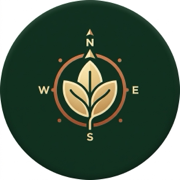
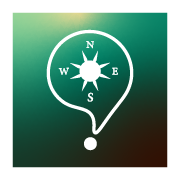
feat(pwa & ui): iconos estandarizados pwa, modulo doble pastilla proximo destino y saneamiento admin

diff --git a/src/components/events/ProximoDestinoCard.tsx b/src/components/events/ProximoDestinoCard.tsx
@@ -8,52 +8,102 @@ interface ProximoDestinoCardProps {
   zonaActual: string;
 }
 
+type ZonaKey = "tayrona" | "mendihuaca" | "minca";
+
+interface TargetDestinoConfig {
+  slug: ZonaKey;
+  emoji: string;
+  themeClasses: string;
+}
+
+const DESTINOS_CONFIG: Record<ZonaKey, { targets: TargetDestinoConfig[] }> = {
+  tayrona: {
+    targets: [
+      {
+        slug: "mendihuaca",
+        emoji: "🌊",
+        themeClasses:
+          "bg-cyan-700 hover:bg-cyan-800 text-white border-cyan-800 shadow-cyan-900/10",
+      },
+      {
+        slug: "minca",
+        emoji: "🌿",
+        themeClasses:
+          "bg-forest hover:bg-forest-dark text-white border-forest shadow-emerald-950/10",
+      },
+    ],
+  },
+  mendihuaca: {
+    targets: [
+      {
+        slug: "tayrona",
+        emoji: "🌴",
+        themeClasses:
+          "bg-[#144D34] hover:bg-[#0C3322] text-white border-[#144D34] shadow-emerald-950/10",
+      },
+      {
+        slug: "minca",
+        emoji: "🌿",
+        themeClasses:
+          "bg-forest hover:bg-forest-dark text-white border-forest shadow-emerald-950/10",
+      },
+    ],
+  },
+  minca: {
+    targets: [
+      {
+        slug: "tayrona",
+        emoji: "🌴",
+        themeClasses:
+          "bg-[#144D34] hover:bg-[#0C3322] text-white border-[#144D34] shadow-emerald-950/10",
+      },
+      {
+        slug: "mendihuaca",
+        emoji: "🌊",
+        themeClasses:
+          "bg-cyan-700 hover:bg-cyan-800 text-white border-cyan-800 shadow-cyan-900/10",
+      },
+    ],
+  },
+};
+
 export function ProximoDestinoCard({ zonaActual }: ProximoDestinoCardProps) {
   const t = useTranslations("crossSelling");
 
-  const isMinca = zonaActual === "minca";
-  const targetZona = isMinca ? "mendihuaca" : "minca";
+  const normalized = (zonaActual === "tairona" ? "tayrona" : zonaActual).toLowerCase();
+  const currentZone: ZonaKey =
+    normalized in DESTINOS_CONFIG
+      ? (normalized as ZonaKey)
+      : "minca";
 
-  const handleTransito = () => {
+  const config = DESTINOS_CONFIG[currentZone];
+
+  const handleTransito = (targetZona: string) => {
     try {
       localStorage.setItem("padonde_zona", targetZona);
       document.cookie = `padonde_zona=${targetZona}; path=/; max-age=31536000; SameSite=Lax`;
+      sessionStorage.removeItem("padonde_filtro_categoria");
     } catch {}
     trackCrossSellingClick(zonaActual, targetZona);
   };
 
-  const badge = isMinca ? t("mincaToMendiBadge") : t("mendiToMincaBadge");
-  const title = isMinca ? t("mincaToMendiTitle") : t("mendiToMincaTitle");
-  const desc = isMinca ? t("mincaToMendiDesc") : t("mendiToMincaDesc");
-  const cta = isMinca ? t("mincaToMendiCta") : t("mendiToMincaCta");
+  const badge = t("badge");
+  const title = t(`${currentZone}.title`);
+  const desc = t(`${currentZone}.desc`);
 
   return (
     <aside
       aria-label="Módulo de transición hacia el próximo destino"
       className="my-7 px-1 animate-in fade-in slide-in-from-bottom-2 duration-300"
     >
-      <Link
-        href={`/${targetZona}`}
-        onClick={handleTransito}
-        className={`block p-5 sm:p-6 rounded-3xl border transition-all duration-200 group active:scale-[0.99] shadow-sm hover:shadow-md cursor-pointer ${
-          isMinca
-            ? "bg-gradient-to-br from-white via-cyan-50/40 to-emerald-50/50 border-cyan-200/70 hover:border-cyan-300"
-            : "bg-gradient-to-br from-white via-emerald-50/40 to-stone-50/60 border-emerald-200/70 hover:border-emerald-300"
-        }`}
-      >
+      <div className="p-5 sm:p-6 rounded-3xl border border-stone-200/80 bg-gradient-to-br from-white via-stone-50/50 to-cream/70 shadow-sm text-left">
         <div className="flex items-start justify-between gap-3">
           <div className="space-y-1.5 flex-1">
-            <span
-              className={`inline-flex items-center gap-1.5 px-3 py-1 rounded-full text-[11px] font-sans font-bold tracking-tight shadow-2xs ${
-                isMinca
-                  ? "bg-cyan-100/70 text-cyan-900 border border-cyan-200"
-                  : "bg-emerald-100/70 text-emerald-900 border border-emerald-200"
-              }`}
-            >
+            <span className="inline-flex items-center gap-1.5 px-3 py-1 rounded-full text-[11px] font-sans font-bold tracking-tight bg-stone-100 text-stone-700 border border-stone-200/80 shadow-2xs">
               {badge}
             </span>
 
-            <h3 className="font-serif text-base sm:text-lg text-forest font-bold leading-snug group-hover:text-forest-dark transition-colors pt-1">
+            <h3 className="font-serif text-base sm:text-lg text-forest font-bold leading-snug pt-1">
               {title}
             </h3>
 
@@ -63,32 +113,39 @@ export function ProximoDestinoCard({ zonaActual }: ProximoDestinoCardProps) {
           </div>
 
           <div
-            className={`w-11 h-11 rounded-2xl flex items-center justify-center text-xl shrink-0 transition-transform group-hover:scale-110 shadow-2xs ${
-              isMinca
-                ? "bg-cyan-50 border border-cyan-100 text-cyan-800"
-                : "bg-emerald-50 border border-emerald-100 text-emerald-800"
-            }`}
+            className="w-10 h-10 rounded-2xl flex items-center justify-center text-lg shrink-0 bg-stone-100/80 border border-stone-200/70 text-stone-600 shadow-2xs select-none"
+            aria-hidden="true"
           >
-            {isMinca ? "🌊" : "🌿"}
+            🧭
           </div>
         </div>
 
-        <div className="mt-4 pt-3 border-t border-stone-light/60 flex items-center justify-between">
-          <span className="font-sans text-[11px] text-stone font-medium">
-            {isMinca ? "Sierra Nevada ➔ Mar Caribe" : "Caribe ➔ Sierra Nevada"}
-          </span>
+        {/* Matriz dinámica de dos opciones - Mobile-first con touch target >= 44px */}
+        <div className="mt-4 pt-3.5 border-t border-stone-light/70 flex items-stretch gap-2 sm:gap-2.5 w-full">
+          {config.targets.map((target) => {
+            const label = t(`destinos.${target.slug}.label`);
 
-          <span
-            className={`inline-flex items-center gap-1 px-3.5 py-1.5 rounded-xl font-sans text-xs font-bold transition-all shadow-2xs group-hover:shadow-xs ${
-              isMinca
-                ? "bg-cyan-700 text-white group-hover:bg-cyan-800"
-                : "bg-forest text-cream group-hover:bg-forest-dark"
-            }`}
-          >
-            {cta}
-          </span>
+            return (
+              <Link
+                key={target.slug}
+                href={`/${target.slug}`}
+                onClick={() => handleTransito(target.slug)}
+                className={`flex-1 min-h-[44px] px-3 sm:px-4 py-2.5 rounded-2xl flex items-center justify-center gap-1.5 sm:gap-2 font-sans text-xs sm:text-sm font-bold border transition-all duration-200 active:scale-[0.98] shadow-2xs hover:shadow-xs cursor-pointer ${target.themeClasses}`}
+              >
+                <span className="text-sm sm:text-base select-none shrink-0">
+                  {target.emoji}
+                </span>
+                <span className="truncate tracking-tight font-semibold">
+                  {label}
+                </span>
+                <span className="text-xs opacity-75 shrink-0 ml-0.5" aria-hidden="true">
+                  →
+                </span>
+              </Link>
+            );
+          })}
         </div>
-      </Link>
+      </div>
     </aside>
   );
 }

diff --git a/src/app/[locale]/(dashboard)/admin/page.tsx b/src/app/[locale]/(dashboard)/admin/page.tsx
@@ -45,12 +45,31 @@ export default async function AdminDashboardPage({
     .eq("clave", "notificaciones_telegram")
     .maybeSingle();
 
-  // 1.2 Asegurar activación oficial de la zona Tayrona en Supabase (sesión autenticada admin)
+  // 1.2 Asegurar activación oficial de la zona Tayrona y saneamiento de Zirumake en Supabase (sesión autenticada admin)
   try {
     await supabase
       .from("zonas")
       .update({ activa: true })
       .in("slug", ["tayrona", "tairona"]);
+
+    // Saneamiento de zona para el aliado Zirumake
+    await supabase
+      .from("negocios")
+      .update({ zona_id: "21c8930c-5e37-44a2-b129-fe5f0e6d8899" })
+      .ilike("nombre", "%zirumake%")
+      .neq("zona_id", "21c8930c-5e37-44a2-b129-fe5f0e6d8899");
+
+    // Saneamiento de título y zona para el hospedaje de Zirumake
+    await supabase
+      .from("eventos")
+      .update({
+        titulo: "Hostal Zirumake Tayrona 🌿🏊",
+        zona_id: "21c8930c-5e37-44a2-b129-fe5f0e6d8899",
+        descripcion:
+          "Hospedaje ecológico y descanso en plena naturaleza a pocos minutos de la entrada El Zaino del Parque Nacional Natural Tayrona. Disfruta de piscina, cabañas privadas, ambiente selvático y tranquilidad absoluta.",
+      })
+      .eq("id", "33dcb70c-3ab7-459b-98d0-bf907e6755e2")
+      .ilike("titulo", "%Minca%");
   } catch {}
 
   const telegramActivas = configTelegram?.valor?.activas ?? true;

diff --git a/src/app/[locale]/(dashboard)/admin/hospedajes/page.tsx b/src/app/[locale]/(dashboard)/admin/hospedajes/page.tsx
@@ -35,6 +35,26 @@ export default async function AdminHospedajesPage({
     redirect({ href: "/admin/login", locale });
   }
 
+  // Saneamiento de zona y título para Zirumake
+  try {
+    await supabase
+      .from("negocios")
+      .update({ zona_id: "21c8930c-5e37-44a2-b129-fe5f0e6d8899" })
+      .ilike("nombre", "%zirumake%")
+      .neq("zona_id", "21c8930c-5e37-44a2-b129-fe5f0e6d8899");
+
+    await supabase
+      .from("eventos")
+      .update({
+        titulo: "Hostal Zirumake Tayrona 🌿🏊",
+        zona_id: "21c8930c-5e37-44a2-b129-fe5f0e6d8899",
+        descripcion:
+          "Hospedaje ecológico y descanso en plena naturaleza a pocos minutos de la entrada El Zaino del Parque Nacional Natural Tayrona. Disfruta de piscina, cabañas privadas, ambiente selvático y tranquilidad absoluta.",
+      })
+      .eq("id", "33dcb70c-3ab7-459b-98d0-bf907e6755e2")
+      .ilike("titulo", "%Minca%");
+  } catch {}
+
   // 2. Obtener hospedajes registrados
   let { data: hospedajesData, error: hospErr } = await supabase
     .from("eventos")

diff --git a/src/components/layout/InstallPrompt.tsx b/src/components/layout/InstallPrompt.tsx
@@ -158,7 +158,7 @@ export function InstallPrompt() {
             <div className="text-center mb-4">
               <div className="w-12 h-12 mx-auto rounded-2xl overflow-hidden shadow-md mb-2">
                 <img
-                  src="/icon-192.png"
+                  src="/icon-192x192.png"
                   alt="PaDónde"
                   className="w-full h-full object-cover"
                   width={48}
@@ -230,7 +230,7 @@ export function InstallPrompt() {
             <div className="text-center mb-4">
               <div className="w-12 h-12 mx-auto rounded-2xl overflow-hidden shadow-md mb-2">
                 <img
-                  src="/icon-192.png"
+                  src="/icon-192x192.png"
                   alt="PaDónde"
                   className="w-full h-full object-cover"
                   width={48}

diff --git a/src/app/manifest.ts b/src/app/manifest.ts
@@ -16,28 +16,16 @@ export default function manifest(): MetadataRoute.Manifest {
     categories: ["travel", "entertainment", "lifestyle"],
     icons: [
       {
-        src: "/icon-192.png",
+        src: "/icon-192x192.png",
         sizes: "192x192",
         type: "image/png",
         purpose: "any",
       },
       {
-        src: "/icon-192.png",
-        sizes: "192x192",
-        type: "image/png",
-        purpose: "maskable",
-      },
-      {
-        src: "/icon-512.png",
+        src: "/icon-512x512.png",
         sizes: "512x512",
         type: "image/png",
-        purpose: "any",
-      },
-      {
-        src: "/icon-512.png",
-        sizes: "512x512",
-        type: "image/png",
-        purpose: "maskable",
+        purpose: "any maskable" as any,
       },
     ],
   };

diff --git a/src/app/[locale]/(dashboard)/admin/aliados/page.tsx b/src/app/[locale]/(dashboard)/admin/aliados/page.tsx
@@ -32,6 +32,15 @@ export default async function AdminAliadosPage({
     redirect({ href: "/admin/login", locale });
   }
 
+  // Asegurar asignación de zona Tayrona para Zirumake si estaba en Mendihuaca
+  try {
+    await supabase
+      .from("negocios")
+      .update({ zona_id: "21c8930c-5e37-44a2-b129-fe5f0e6d8899" })
+      .ilike("nombre", "%zirumake%")
+      .neq("zona_id", "21c8930c-5e37-44a2-b129-fe5f0e6d8899");
+  } catch {}
+
   // 2. Cargar negocios con sus eventos asociados
   let { data: rawNegocios, error: errNegocios } = await supabase
     .from("negocios")

diff --git a/src/app/[locale]/layout.tsx b/src/app/[locale]/layout.tsx
@@ -62,8 +62,13 @@ export const metadata: Metadata = {
   creator: "PaDónde",
   publisher: "PaDónde",
   icons: {
-    icon: "/favicon.ico",
-    apple: "/apple-touch-icon.png",
+    icon: [
+      { url: "/favicon.ico" },
+      { url: "/icon-192x192.png", sizes: "192x192", type: "image/png" },
+    ],
+    apple: [
+      { url: "/apple-touch-icon.png", sizes: "180x180", type: "image/png" },
+    ],
   },
   alternates: {
     canonical: "https://padonde.lat",

diff --git a/src/app/[locale]/(dashboard)/admin/actions.ts b/src/app/[locale]/(dashboard)/admin/actions.ts
@@ -1553,6 +1553,7 @@ export async function guardarHospedajeAction(input: GuardarHospedajeInput) {
       await supabase
         .from("negocios")
         .update({
+          zona_id: zona.id,
           nombre: nombreLimpio,
           whatsapp: cleanPhone || undefined,
           instagram: input.instagram?.trim() || null,

diff --git a/public/sw.js b/public/sw.js
@@ -21,6 +21,9 @@ const PRECACHE_ASSETS = [
   '/es/minca',
   '/es/mendihuaca',
   '/manifest.webmanifest',
+  '/icon-192x192.png',
+  '/icon-512x512.png',
+  '/apple-touch-icon.png',
   '/icon-192.png',
   '/icon-512.png',
   '/favicon.ico',
